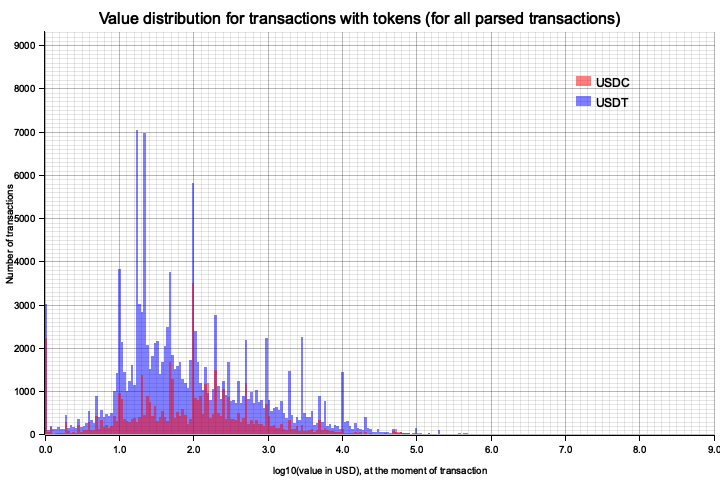
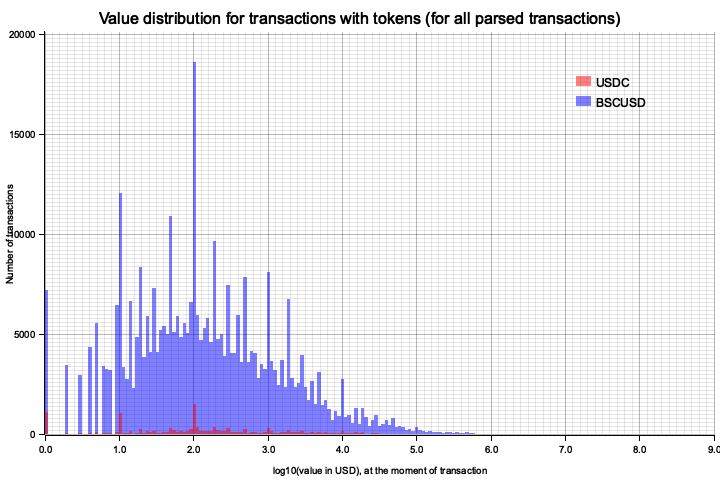
10 million parsing result

Changed region(s): [[0.0, 0.0625, 1.0, 0.9062]]

diff --git a/src/main.rs b/src/main.rs
@@ -91,20 +91,23 @@ enum OnchainFunction {
 
 #[derive(Hash, PartialEq, Eq, Deserialize, Serialize, Debug, Clone, EnumIter)]
 enum Payload {
-    USDT = 1,
-    USDC = 2,
+    BSCUSD,
+    USDC,
 }
 
-const TRAVERSAL_STARTING_ADDRESS: &str = "0x760DcE7eA6e8BA224BFFBEB8a7ff4Dd1Ef122BfF";
+const SATOSHI_TO_COIN_CONVERSION_FACTOR: usize = 1E18 as usize;
+// 1E18  for bscscan
+
+const TRAVERSAL_STARTING_ADDRESS: &str = "0x94453A61CAbCd51ef1031f527Fd2b76f659423e7";
 const MAX_TRANSACTIONS_TO_PARSE: usize = 10_000_000;
 const TRANSACTIONS_TO_REQUEST: usize = 10_000; // <= 10000. Limit of transactions to request (from and to) one particular address
 const DATA_STORAGE_FOLDER: &str = "json";
 
 static CONTRACT_ADDRESSES: Lazy<Mutex<HashMap<Payload, String>>> = Lazy::new(|| {
     let mut m = HashMap::new();
-    let usdt_contract = "0xc2132D05D31c914a87C6611C10748AEb04B58e8F".to_string().to_lowercase();
-    let usdc_contract = "0x3c499c542cEF5E3811e1192ce70d8cC03d5c3359".to_string().to_lowercase();
-    m.insert(Payload::USDT, usdt_contract);
+    let bscusd_contract = "0x55d398326f99059fF775485246999027B3197955".to_string().to_lowercase();
+    let usdc_contract = "0x8AC76a51cc950d9822D68b83fE1Ad97B32Cd580d".to_string().to_lowercase();
+    m.insert(Payload::BSCUSD, bscusd_contract);
     m.insert(Payload::USDC, usdc_contract);
     Mutex::new(m)
 });
@@ -123,7 +126,7 @@ static METHOD_IDS: Lazy<Mutex<HashMap<OnchainFunction, OnchainFunctionDescriptio
     m.insert(OnchainFunction::Transfer,
     OnchainFunctionDescription {
         method_id: "0xa9059cbb".to_string(),
-        function_name:  "transfer(address dst, uint256 rawAmount)".to_string(),
+        function_name:  "transfer(address _to, uint256 _value)".to_string(),
         input_lenth: 138,
         to_slice: (10, 74),
         value_slice: (74, 138),
@@ -132,7 +135,7 @@ static METHOD_IDS: Lazy<Mutex<HashMap<OnchainFunction, OnchainFunctionDescriptio
     m.insert(OnchainFunction::TransferFrom,
     OnchainFunctionDescription {
         method_id: "0x23b872dd".to_string(),
-        function_name:  "transferFrom(address src, address dst, uint256 rawAmount)".to_string(),
+        function_name:  "transferFrom(address _from, address _to, uint256 _value)".to_string(),
         input_lenth: 202,
         from_slice: Some((10, 74)),
         to_slice: (74, 138),
@@ -149,7 +152,7 @@ async fn get_transactions(address: &str, client: &Client, api_key: &String) -> R
     let offset = TRANSACTIONS_TO_REQUEST;
 
     let request_url = format!(
-        "https://api.polygonscan.com/api?module=account&action=txlist&address={}&startblock={}&endblock={}&page={}&offset={}&sort={}&apikey={}",
+        "https://api.bscscan.com/api?module=account&action=txlist&address={}&startblock={}&endblock={}&page={}&offset={}&sort={}&apikey={}",
         address, start_block, end_block, page, offset, sort, api_key
     );
     let response = client.get(&request_url).send().await?;
@@ -235,10 +238,9 @@ async fn graph_data_collection_procedure(
                                 };
 
                             let real_transaction_destination = transaction.input[to_slice_low..to_slice_high].to_string(); // Real transaction destination
-                            let usd_value = primitive_types::U256::from_str_radix(&transaction.input[value_slice_low..value_slice_high], 16)
-                                .unwrap()
-                                .as_u64()
-                                .as_f64() / 1E6;
+                            let u256_value = primitive_types::U256::from_str_radix(&transaction.input[value_slice_low..value_slice_high], 16).unwrap();
+
+                            let usd_value = (u256_value / SATOSHI_TO_COIN_CONVERSION_FACTOR).as_u64().as_f64();
 
                             let digested_transaction = Transaction {
                                 hash: transaction.hash.clone(),
